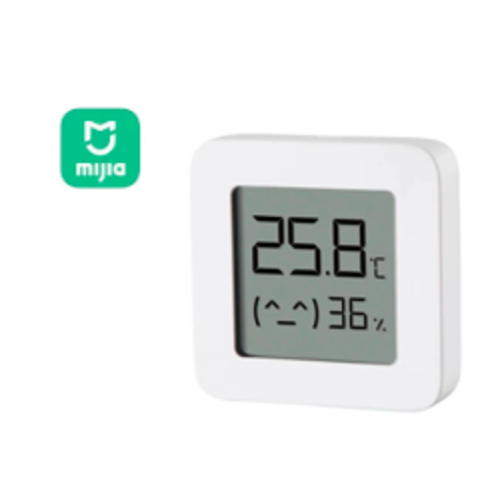
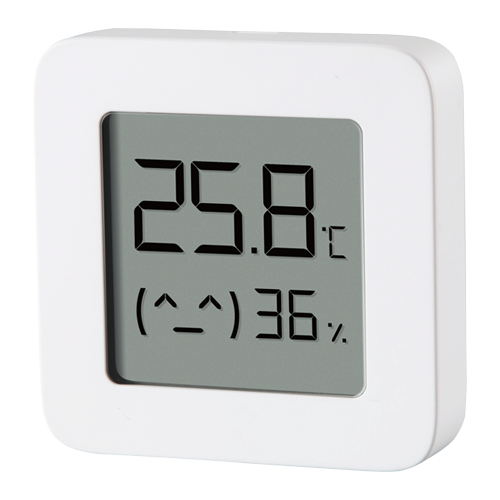
Changed the images to comply with guidelines, added some fixes. Now it works with the new Homey Pro too.

diff --git a/drivers/xiaomi-thermometer-ble/driver.js b/drivers/xiaomi-thermometer-ble/driver.js
@@ -25,12 +25,14 @@ class MyDriver extends Driver {
    */
   
   async onPairListDevices() {
+    try {
     let devices = [];
-    const foundDevices = await this.homey.ble.discover([], 25 * 1000);
+    const foundDevices = await this.homey.ble.discover([], 30000);
     foundDevices.forEach(device => {
       const sdata = device.serviceData;
+      if(sdata !== null){
       sdata.forEach(uuid => {
-        if(uuid.uuid=="181a"){
+        if(uuid.uuid=="0000181a-0000-1000-8000-00805f9b34fb"){
           console.log(device.localName);
           let new_device =
             {
@@ -55,26 +57,35 @@ class MyDriver extends Driver {
        devices.push(new_device);
       }
       })
-      
+    }
     })
     return devices;
+  } catch (error) {
+    this.error('List device error:', error);
   }
+}
 
   async pollDevice() {
     while (this.polling) {
-        console.log(`Refreshing BLE`);
+        console.log(`Refreshing BLE devices`);
         let polling_interval = this.homey.settings.get('polling_interval');
         let scan_duration = this.homey.settings.get('scan_duration');
 
         //default value for polling and scan
-        if (!polling_interval) polling_interval = 60;
-        if (!scan_duration) scan_duration = 10;
+        if (!polling_interval) polling_interval = 30;
+        if (!scan_duration) scan_duration = 20;
 
         //listing all all Ruuvitag
         let devices = this.getDevices();
 
         
         const foundDevices = await this.homey.ble.discover([], scan_duration * 1000);
+        this.log("Scan complete!")
+        if (foundDevices.length === 0) {
+          this.log("No new advertisements were detected. Retrying in 1 second.");
+          setTimeout(() => this.pollDevice(), 1000);
+          return;
+        }
         //console.log(foundDevices, "Found devices in driver");
         devices.forEach(device => device.emit('updateTag', foundDevices));
 

diff --git a/drivers/xiaomi-thermometer-ble/device.js b/drivers/xiaomi-thermometer-ble/device.js
@@ -55,13 +55,13 @@ class MyDevice extends Device {
     let deviceData = this.getData();
     let settings = this.getSettings();
     let mac = this.getData();
-
       foundDevices.forEach(device => {
+        //this.log("Device Mac: ",device.address);
         if(device.address==mac["id"]){
           console.log("Match!", mac, device.address);
           const sdata = device.serviceData;
           sdata.forEach(uuid => {
-            if(uuid.uuid=="181a"){
+            if(uuid.uuid=="0000181a-0000-1000-8000-00805f9b34fb"){
               var datas = uuid["data"];
               const dattta = Buffer.from(uuid["data"],'hex');
               console.log(device.localName)
